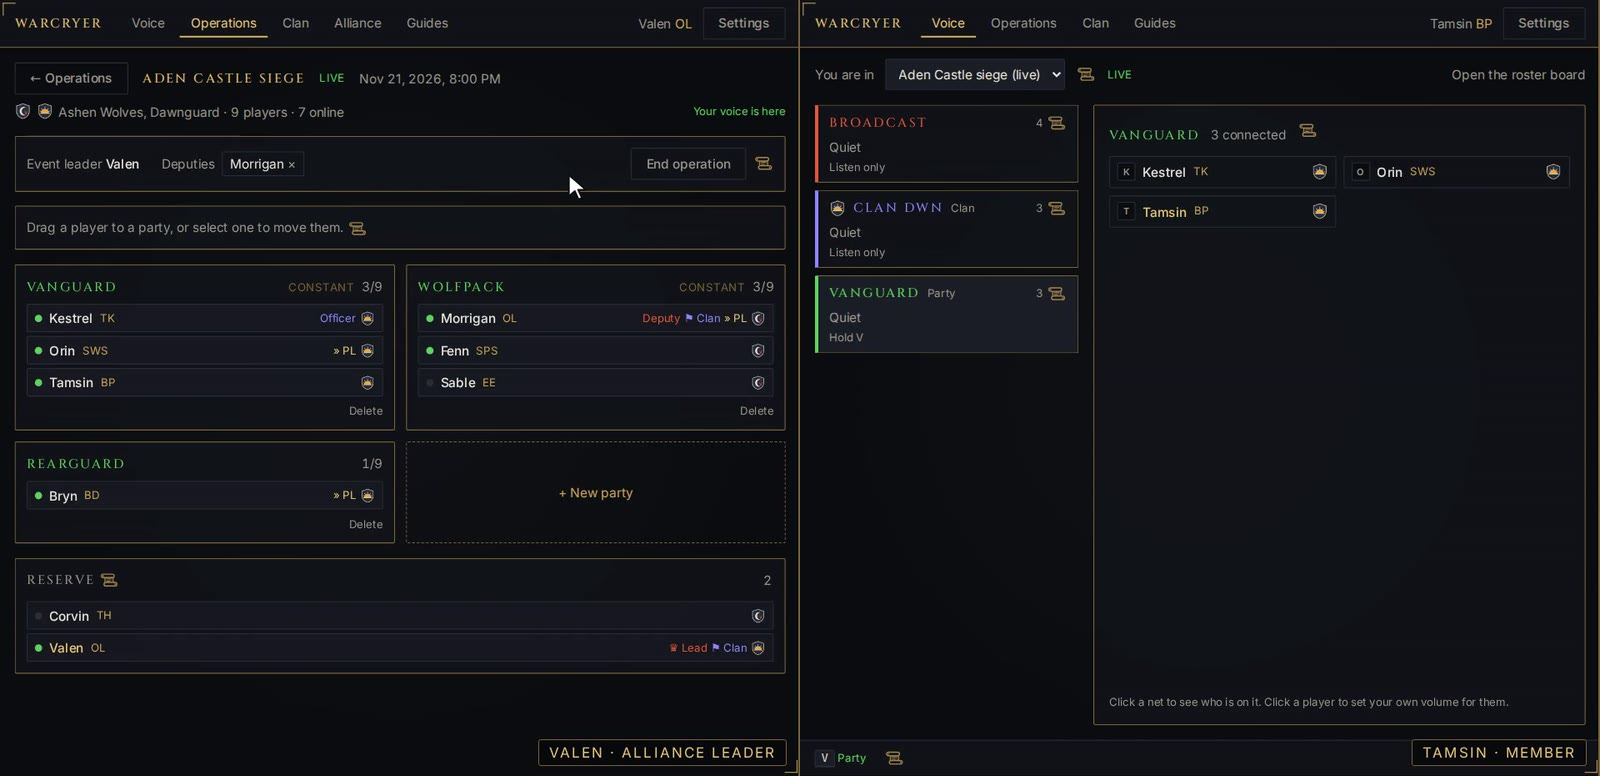
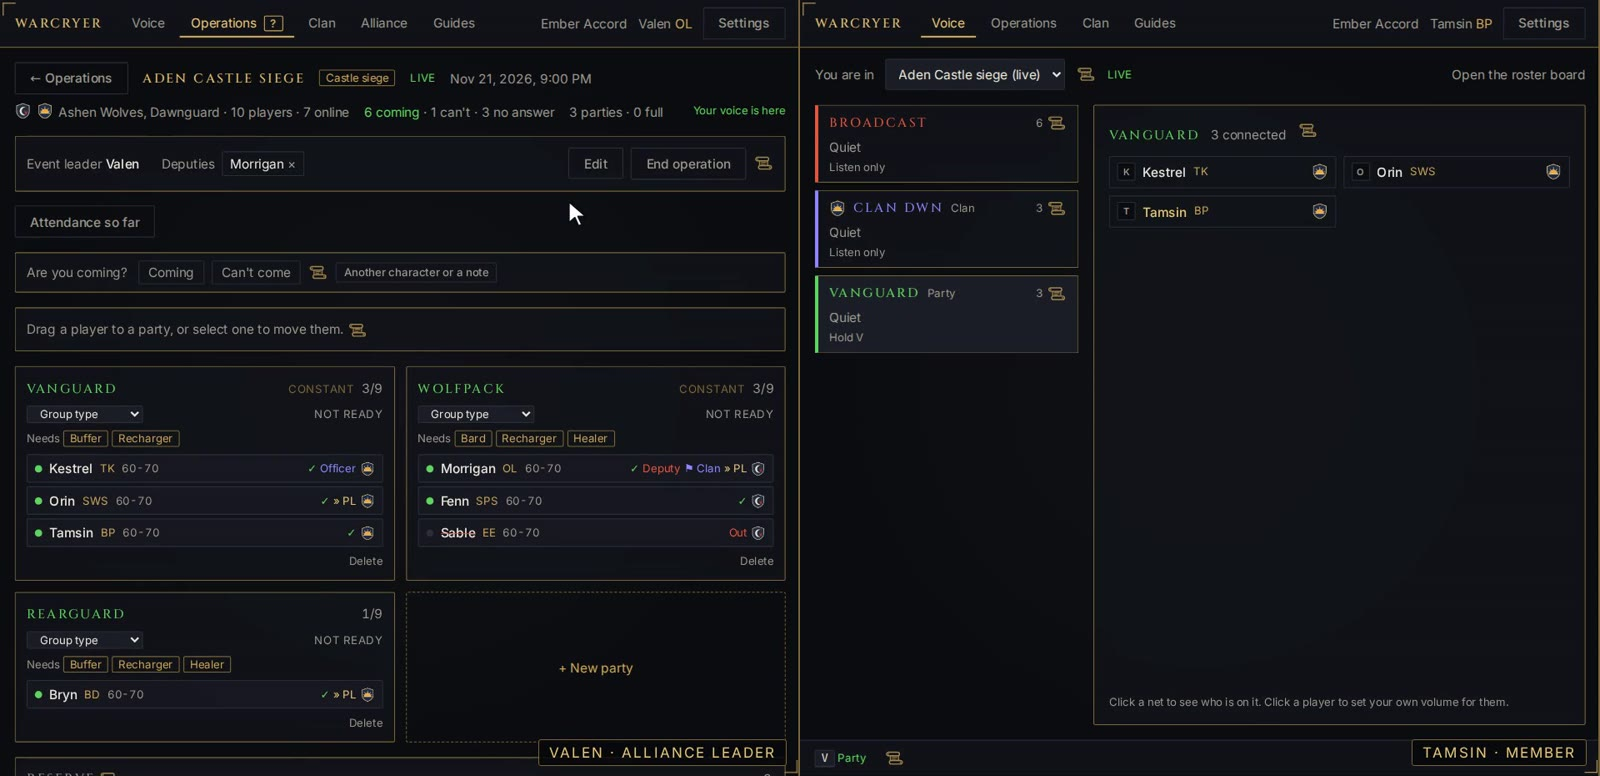
Alliances, game setup and words; changing operations and Discord; fresh pictures from the new walkthrough
Claude-Session: https://claude.ai/code/session_01DWJgyuiwrFFG25WQs1oJDc

diff --git a/index.html b/index.html
@@ -22,6 +22,7 @@
     <a href="#nets">How it works</a>
     <a href="#planning">Planning</a>
     <a href="#leaders">For leaders</a>
+    <a href="#alliance">Your alliance</a>
     <a href="#open">Open source</a>
     <a class="btn small" href="https://github.com/Warcryer/client/releases/latest">Download</a>
   </nav>
@@ -57,7 +58,7 @@
       <span class="play-mark" aria-hidden="true"></span>
     </button>
   </div>
-  <p class="fine video-note">Playing it loads the video from YouTube. Or <a href="https://youtu.be/mfSGKR_gbI8">watch it on YouTube</a>. It was recorded before sign-ups, party needs and attendance were added; those are shown <a href="#planning">further down</a>.</p>
+  <p class="fine video-note">Playing it loads the video from YouTube. Or <a href="https://youtu.be/mfSGKR_gbI8">watch it on YouTube</a>. It was recorded before sign-ups, party needs, attendance, game setup and separate alliances were added; those are shown <a href="#planning">further down</a>. A new recording is on its way.</p>
 </section>
 
 <section id="nets">
@@ -173,6 +174,14 @@
       <p>Create a siege or raid, choose the clans taking part, build parties on a drag-and-drop board, then go live. Everyone on the roster is pulled into their nets at once.</p>
     </article>
     <article>
+      <h3>Change of plan</h3>
+      <p>Rename an operation, move its start, hand it to another event leader or change which clans take part. Players with the app open see it at once, and one made by mistake can be deleted.</p>
+    </article>
+    <article>
+      <h3>Told on Discord</h3>
+      <p>Connect a Discord channel and every new, changed, started or cancelled operation is announced there, with the start shown in each reader's own time zone, for the players who do not have the app open.</p>
+    </article>
+    <article>
       <h3>Constant parties</h3>
       <p>Groups that always fight together are saved once, in order, with a leader. On the board one click places them all, which for most events is most of the roster.</p>
     </article>
@@ -182,7 +191,7 @@
     </article>
     <article>
       <h3>Clans and invite links</h3>
-      <p>Players ask to join and leaders approve, or a leader sends an invite link with a set number of uses and days. A clan's crest appears beside each member's name when they speak.</p>
+      <p>Players come in by an invite link from their clan's leader, with a set number of uses and days; it lets them straight in or puts them on a waiting list to approve. A clan's crest appears beside each member's name when they speak.</p>
     </article>
     <article>
       <h3>The lounge</h3>
@@ -204,6 +213,33 @@
   <figure class="wide">
     <img src="shots/voice.jpg" alt="The voice screen: one card per net, showing who is speaking and which key talks there" width="1600" height="775" loading="lazy">
     <figcaption>The voice screen during an operation: one card per net, who is speaking, and the key that talks there.</figcaption>
+  </figure>
+</section>
+
+<section id="alliance">
+  <h2>Your alliance, your game, your words</h2>
+  <p class="intro">Nothing about any one game is built in. An alliance sets the app up for the game it plays, and what is inside an alliance is seen and heard by nobody outside it.</p>
+  <div class="cards">
+    <article>
+      <h3>An alliance of your own</h3>
+      <p>Start an alliance from the app with a name and a game. You own it: create its clans, send each leader an invite link, appoint admins, and hand it on if you step down. Nobody can find it or ask to join from outside.</p>
+    </article>
+    <article>
+      <h3>Fits your game</h3>
+      <p>Classes and what each does, how big a party is, which roles every party should have, level or gear bands, your own kinds of event. Start from the lists for Lineage 2, World of Warcraft or Throne and Liberty, or from nothing, and change what you like.</p>
+    </article>
+    <article>
+      <h3>In your own words</h3>
+      <p>If your players say guild where the app says clan, or raid where it says operation, say so once. The app, its guides, the invite page and the Discord announcements then speak your way, and the names you typed stay as you typed them.</p>
+    </article>
+    <article>
+      <h3>Kept apart</h3>
+      <p>Clans, players, operations, voice and the log belong to one alliance. Every release is tested by having one alliance's players try everything against another's, and all of it must be refused.</p>
+    </article>
+  </div>
+  <figure class="wide">
+    <img src="shots/setup.jpg" alt="The game setup editor: an alliance's own kinds of event, group types and level bands, and under them the five words the app is built around, each with a box for the alliance's own word for one and for several" width="1600" height="775" loading="lazy">
+    <figcaption>Game setup: your own kinds of event, and your own words for the five things the app is built around.</figcaption>
   </figure>
 </section>
 
@@ -234,7 +270,7 @@
 
 <section id="status" class="status">
   <h2>Where it stands</h2>
-  <p>Warcryer is in early testing with one alliance. The Windows client is open source and its releases are public. Hosting for other alliances is not available yet.</p>
+  <p>Warcryer is in early testing. The server now keeps any number of alliances apart, and a beta for other alliances is being prepared; it is not open yet. The Windows client is open source and its releases are public.</p>
   <div class="actions">
     <a class="btn" href="https://github.com/Warcryer/client/releases/latest">Download for Windows</a>
     <a class="btn quiet" href="https://github.com/Warcryer/client/tree/main/docs">Read the guides</a>
@@ -244,7 +280,7 @@
 </main>
 
 <footer>
-  <p>Warcryer is a community project, MIT licensed. It is not affiliated with or endorsed by NCSOFT or any game publisher, and it uses no game artwork. TeamSpeak is a trademark of its owner, named here only for comparison; Warcryer is not affiliated with it.</p>
+  <p>Warcryer is a community project, MIT licensed. It is not affiliated with or endorsed by NCSOFT or any other game publisher, and it uses no game artwork; games are named only to say which starting lists exist, and their names belong to their owners. TeamSpeak is a trademark of its owner, named here only for comparison; Warcryer is not affiliated with it.</p>
   <p><a href="https://github.com/Warcryer/client">GitHub</a> · <a href="https://github.com/Warcryer/client/releases">Releases</a> · <a href="https://github.com/Warcryer/client/blob/main/PRIVACY.md">Privacy policy</a> · <a href="https://github.com/Warcryer/client#code-signing-policy">Code signing policy</a> · <a href="https://github.com/Warcryer/client/issues">Report a problem</a></p>
 </footer>
 
